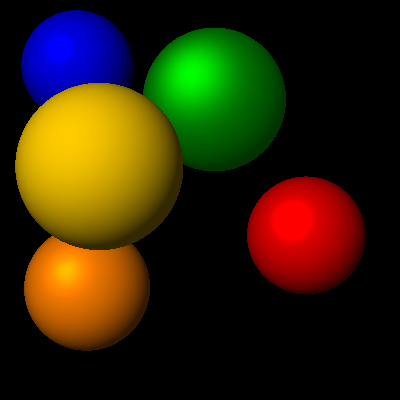
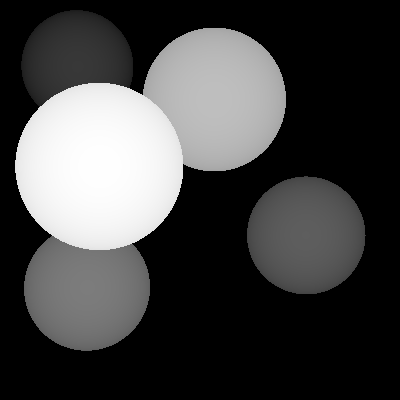
Z buffer bem loco

diff --git a/scene.cpp b/scene.cpp
@@ -78,7 +78,6 @@ Color Scene::trace(const Ray &ray)
     double r = (specular_factor * material->color.r) + (material->ka * material->color.r) + (material->kd * cosine_factor * material->color.r);
     double g = (specular_factor * material->color.g) + (material->ka * material->color.g) +(material->kd * cosine_factor * material->color.g);
     double b = (specular_factor * material->color.b) + (material->ka * material->color.b) +(material->kd * cosine_factor * material->color.b);
-    if (cosine_factor < 0) cosine_factor = 0;
 
     
     Color color(r,g,b);
@@ -102,12 +101,9 @@ Color Scene::zBufferTrace(const Ray &ray)
     // No hit? Return background color.
     if (!obj) return Color(0.0, 0.0, 0.0);
     
-    Material *material = obj->material;            //the hit objects material
-    Point hit = ray.at(min_hit.t);                 //the hit point
-    Vector N = min_hit.N;                          //the normal at hit point
-    Vector V = -ray.D;                             //the view vector
-
-    return Color(0,0,0);
+    double z = 1-(min_hit.t-min_t) / (max_t-min_t);
+    z = (z * 0.9) + 0.1;
+    return Color(z,z,z);
 }
 
 Color Scene::normalBufferTrace(const Ray &ray)
@@ -142,13 +138,50 @@ void Scene::render(Image &img)
     int w = img.width();
     int h = img.height();
     
-    for (int y = 0; y < h; y++) {
-        for (int x = 0; x < w; x++) {
+    initializeMinMaxT();
+    
+    // Only execute this for if the render mode is for Z buffer
+    for (int y=0; y<h; y++)
+    {
+        for (int x=0; x<w; x++)
+        {
             Point pixel(x+0.5, h-1-y+0.5, 0);
             Ray ray(eye, (pixel-eye).normalized());
-            Color col = trace(ray);
+            findMinMaxT(ray);
+        }
+    }
+    
+    for (int y = 0; y < h; y++)
+    {
+        for (int x = 0; x < w; x++)
+        {
+            Point pixel(x+0.5, h-1-y+0.5, 0);
+            Ray ray(eye, (pixel-eye).normalized());
+            Color col = zBufferTrace(ray);
             col.clamp();
             img(x,y) = col;
+        }
+    }
+}
+
+void Scene::initializeMinMaxT()
+{
+    min_t = std::numeric_limits<double>::infinity();
+    max_t = 0;
+}
+
+void Scene::findMinMaxT(const Ray &ray)
+{
+    for (unsigned int i = 0; i < objects.size(); i++)
+    {
+        Hit hit(objects[i]->intersect(ray));
+        if (hit.t<min_t)
+        {
+            min_t = hit.t;
+        }
+        if (hit.t>max_t)
+        {
+            max_t = hit.t;
         }
     }
 }

diff --git a/scene.h b/scene.h
@@ -29,11 +29,14 @@ private:
     std::vector<Object*> objects;
     std::vector<Light*> lights;
     Triple eye;
+    double min_t = 9999999, max_t = 0;
 public:
     Color trace(const Ray &ray);
     Color zBufferTrace(const Ray &ray);
     Color normalBufferTrace(const Ray &ray);
     void render(Image &img);
+    void initializeMinMaxT();
+    void findMinMaxT(const Ray &ray);
     void addObject(Object *o);
     void addLight(Light *l);
     void setEye(Triple e);
